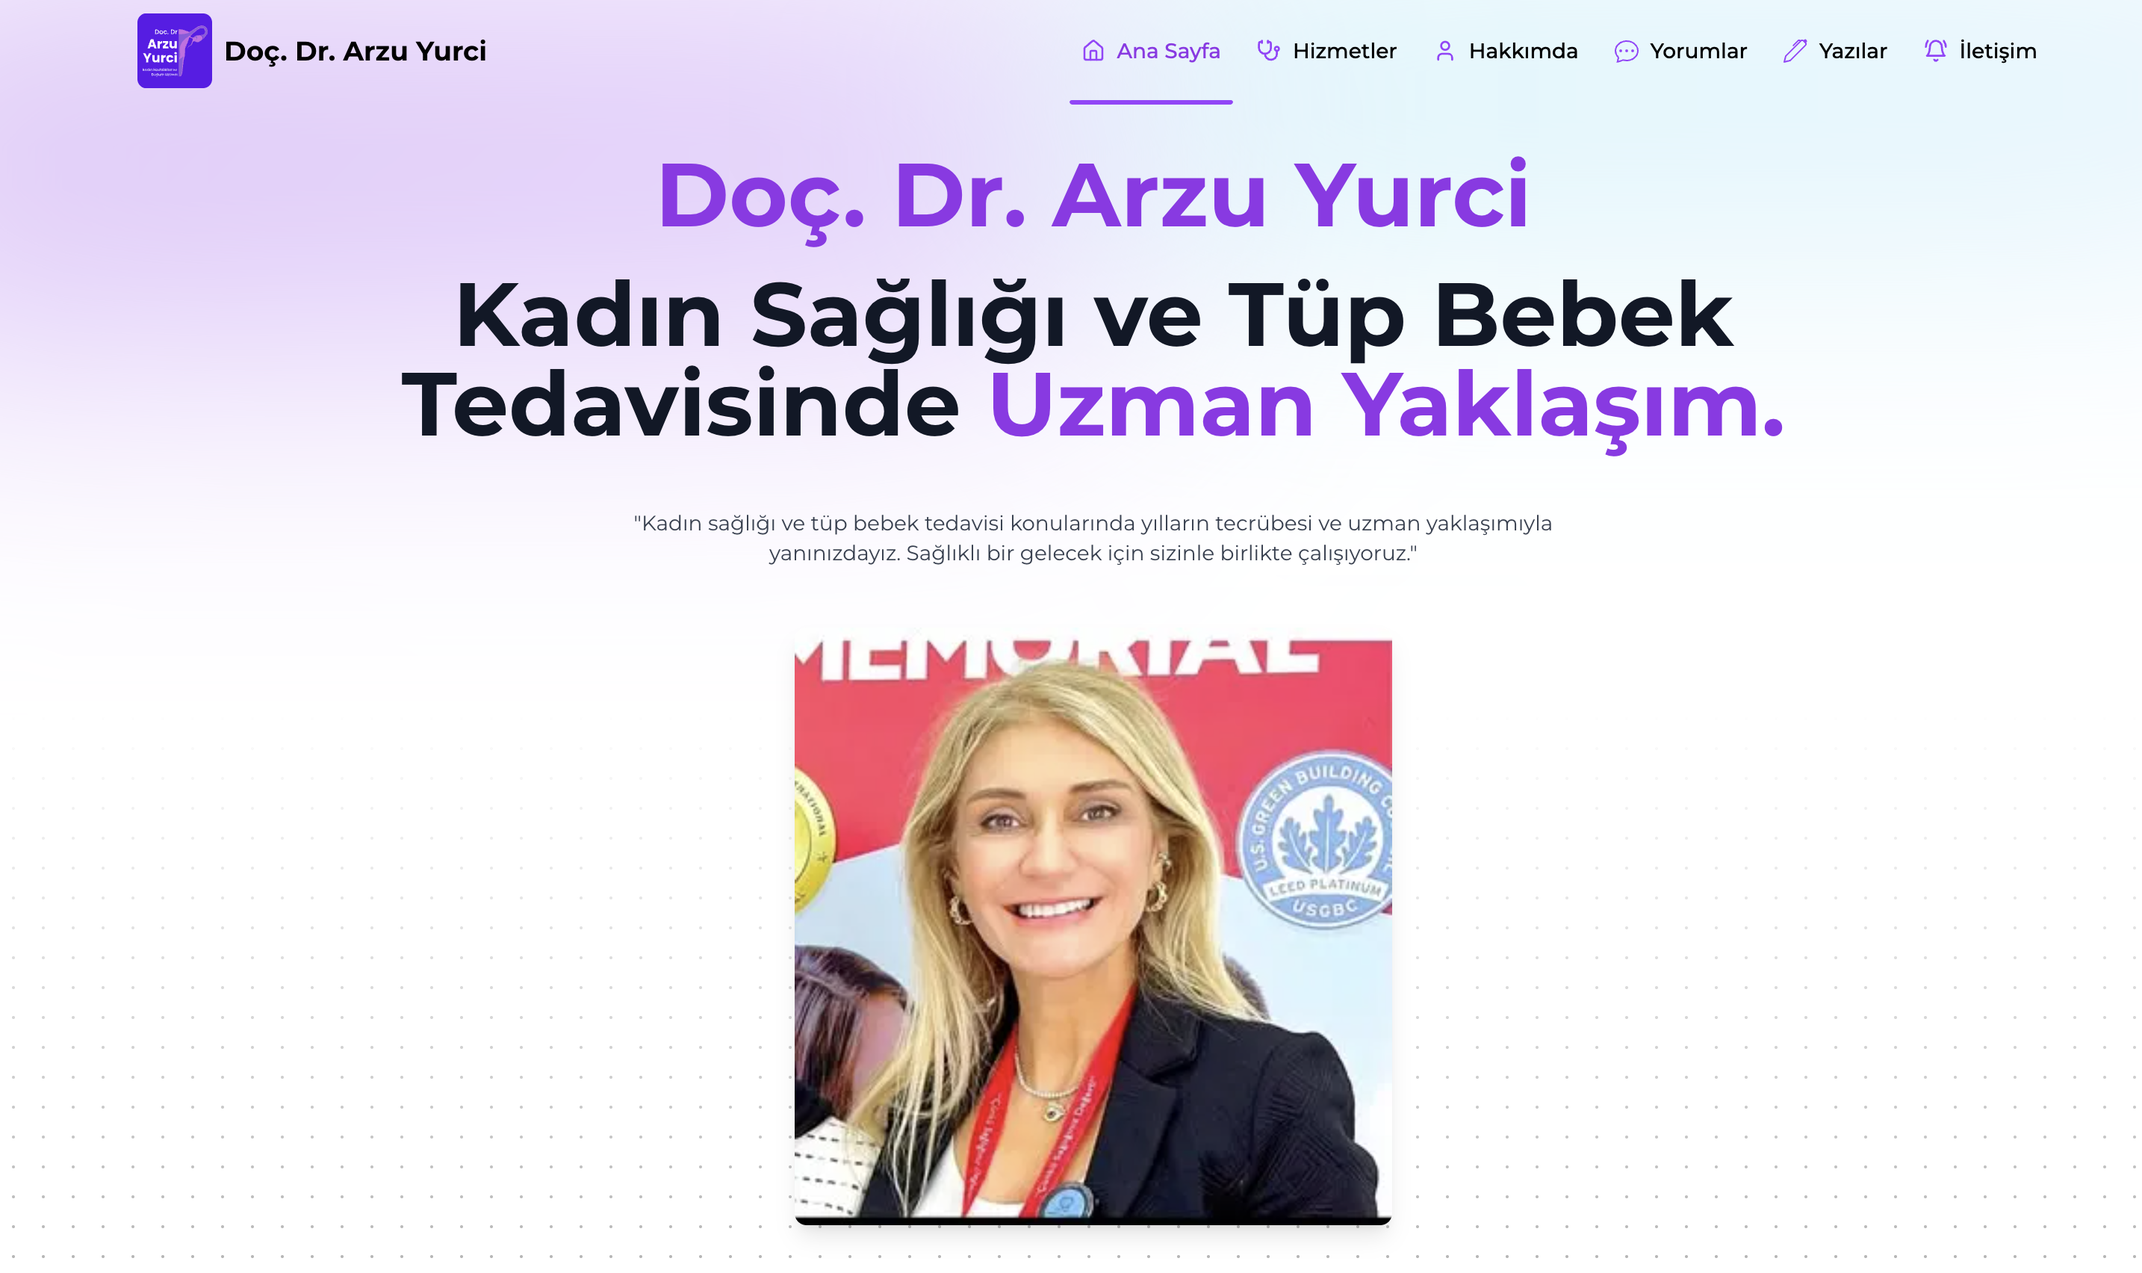
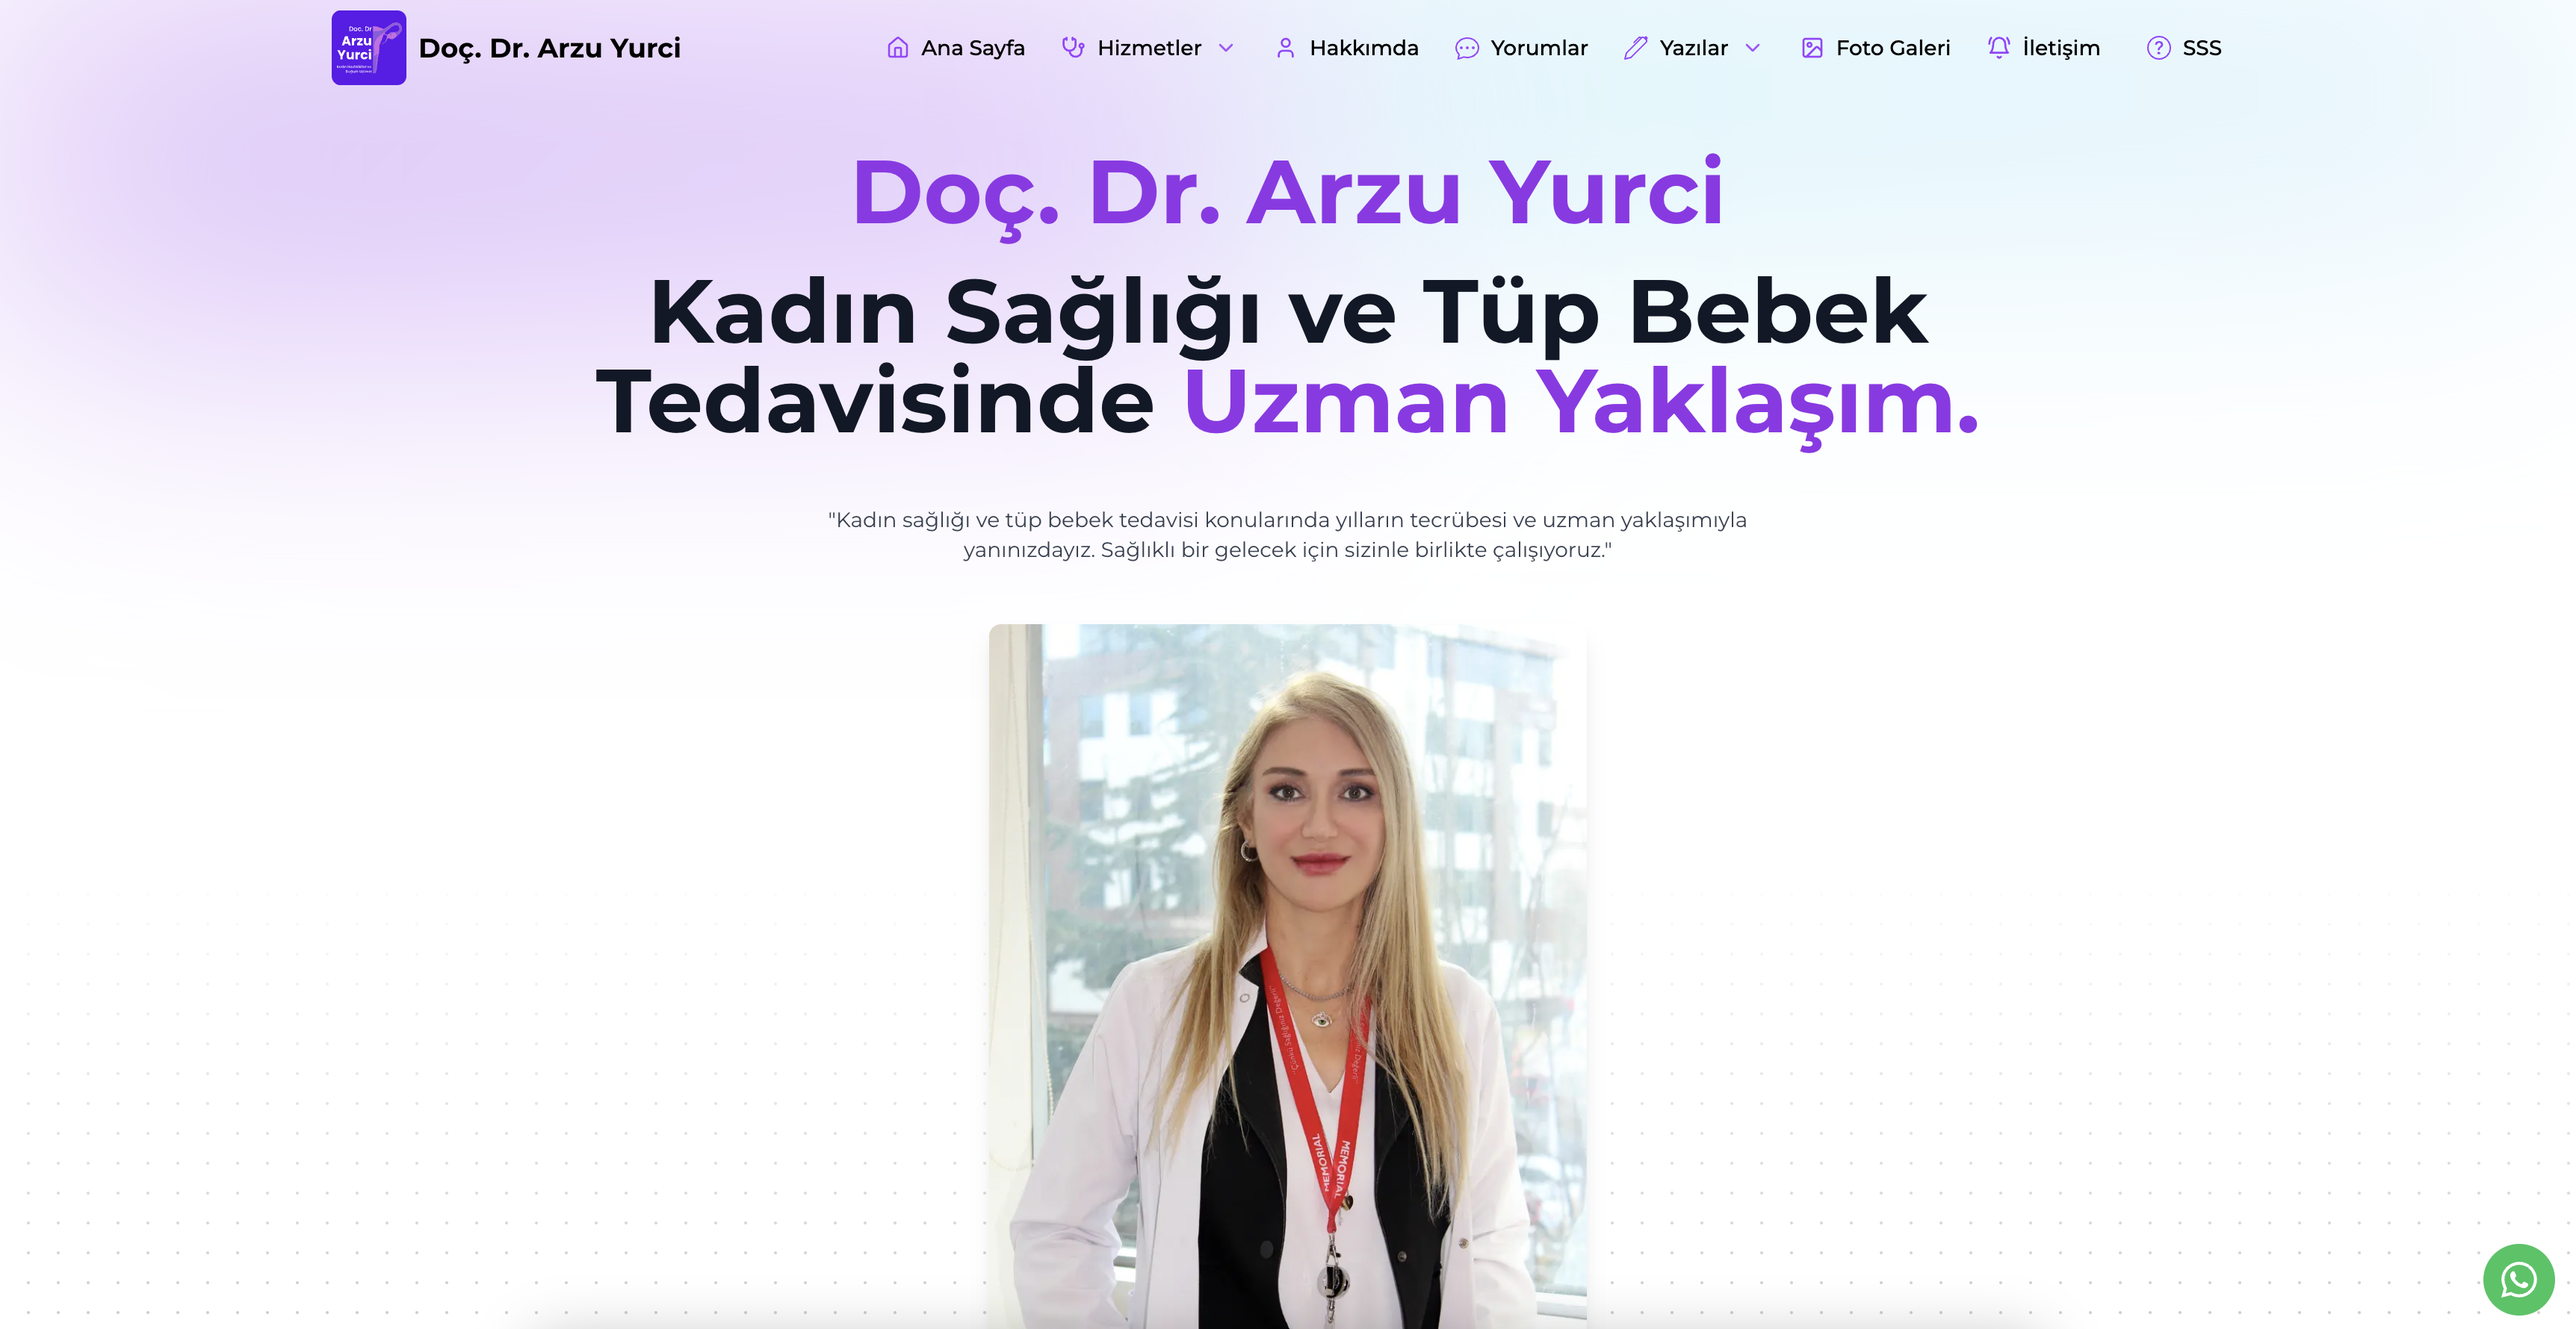
ui updates

diff --git a/src/app/hakkimda/page.jsx b/src/app/hakkimda/page.jsx
@@ -2,7 +2,6 @@ import SectionTitle from "@/components/sections/SectionTitle";
 import { UserIcon } from "lucide-react";
 import BlurFade from "@/components/ui/blur-fade";
 import Image from "next/image";
-import { BorderBeam } from "@/components/ui/border-beam";
 import CommentsSection from "@/components/sections/CommentsSection";
 import { getUser } from "@/api/endpoints";
 import { sectionKeys } from "@/routes";
@@ -43,7 +42,7 @@ async function AboutPage() {
   const data = await getUser();
   if (!data) return;
 
-  const { content, image } = data.about;
+  const { content, content_long, image } = data.about;
 
   return (
     <div className="w-full max-w-7xl mx-auto px-4 sm:px-6 lg:px-8">
@@ -54,8 +53,12 @@ async function AboutPage() {
       <div className="flex flex-col items-center gap-8 mb-12">
         <BlurFade delay={0.5} inView>
           <div
-            className="text-md text-black font-medium mx-auto max-w-4xl text-center text-pretty"
+            className="article-content text-md text-black font-medium max-w-4xl text-pretty"
             dangerouslySetInnerHTML={{ __html: content }}
+          />
+          <div
+            className="article-content text-md text-black font-medium max-w-4xl text-pretty"
+            dangerouslySetInnerHTML={{ __html: content_long }}
           />
         </BlurFade>
         <BlurFade delay={0.75} inView>
@@ -66,13 +69,6 @@ async function AboutPage() {
               alt="Doç. Dr. Arzu Yurci"
               width={500}
               height={500}
-            />
-            <BorderBeam
-              colorFrom="#9c40ff"
-              colorTo="#c084fc"
-              size={200}
-              duration={10}
-              delay={9}
             />
           </div>
         </BlurFade>

diff --git a/src/components/sections/Navbar.jsx b/src/components/sections/Navbar.jsx
@@ -101,7 +101,7 @@ function Navbar() {
         isScrolled ? "bg-white shadow-md" : "bg-transparent"
       }`}
     >
-      <div className="lg:flex hidden gap-4 items-center mx-auto justify-between w-full max-w-7xl h-full">
+      <div className="xl:flex hidden gap-4 items-center mx-auto justify-between w-full max-w-7xl h-full">
         <div className="flex items-center gap-2">
           <Image
             className="rounded-md object-cover"
@@ -135,7 +135,7 @@ function Navbar() {
               {route.hasDropdown &&
                 dropdownRoutes[route.sectionKey] &&
                 dropdownRoutes[route.sectionKey].length > 0 && (
-                  <div className="absolute top-[72px] left-0 w-max max-w-[200px] hidden shadow-md group-hover:flex flex-col bg-white">
+                  <div className="absolute top-[72px] left-0 w-max max-w-[240px] hidden shadow-md group-hover:flex flex-col bg-white">
                     {dropdownRoutes[route.sectionKey].map((item, index) => (
                       <Link
                         key={index}
@@ -152,7 +152,7 @@ function Navbar() {
         </div>
       </div>
       {/* Mobile Menu */}
-      <div className="flex justify-between items-center w-full lg:hidden">
+      <div className="flex justify-between items-center w-full xl:hidden">
         <Button
           className="min-w-max px-3"
           color="secondary"

diff --git a/public/icons/WhatsappIcon.js b/public/icons/WhatsappIcon.js
@@ -1,0 +1,14 @@
+export const WhatsappIcon = (props) => {
+  return (
+    <svg
+      xmlns="http://www.w3.org/2000/svg"
+      width={16}
+      height={16}
+      fill="currentColor"
+      viewBox="0 0 16 16"
+      {...props}
+    >
+      <path d="M13.601 2.326A7.85 7.85 0 0 0 7.994 0C3.627 0 .068 3.558.064 7.926c0 1.399.366 2.76 1.057 3.965L0 16l4.204-1.102a7.9 7.9 0 0 0 3.79.965h.004c4.368 0 7.926-3.558 7.93-7.93A7.9 7.9 0 0 0 13.6 2.326zM7.994 14.521a6.6 6.6 0 0 1-3.356-.92l-.24-.144-2.494.654.666-2.433-.156-.251a6.56 6.56 0 0 1-1.007-3.505c0-3.626 2.957-6.584 6.591-6.584a6.56 6.56 0 0 1 4.66 1.931 6.56 6.56 0 0 1 1.928 4.66c-.004 3.639-2.961 6.592-6.592 6.592m3.615-4.934c-.197-.099-1.17-.578-1.353-.646-.182-.065-.315-.099-.445.099-.133.197-.513.646-.627.775-.114.133-.232.148-.43.05-.197-.1-.836-.308-1.592-.985-.59-.525-.985-1.175-1.103-1.372-.114-.198-.011-.304.088-.403.087-.088.197-.232.296-.346.1-.114.133-.198.198-.33.065-.134.034-.248-.015-.347-.05-.099-.445-1.076-.612-1.47-.16-.389-.323-.335-.445-.34-.114-.007-.247-.007-.38-.007a.73.73 0 0 0-.529.247c-.182.198-.691.677-.691 1.654s.71 1.916.81 2.049c.098.133 1.394 2.132 3.383 2.992.47.205.84.326 1.129.418.475.152.904.129 1.246.08.38-.058 1.171-.48 1.338-.943.164-.464.164-.86.114-.943-.049-.084-.182-.133-.38-.232" />
+    </svg>
+  );
+};

diff --git a/src/components/sections/AboutSection.jsx b/src/components/sections/AboutSection.jsx
@@ -2,7 +2,6 @@ import React from "react";
 import SectionTitle from "./SectionTitle";
 import { ChevronRight, UserIcon } from "@/icons";
 import Image from "next/image";
-import { BorderBeam } from "@/components/ui/border-beam";
 import BlurFade from "@/components/ui/blur-fade";
 import Link from "next/link";
 import { Button } from "@nextui-org/react";
@@ -45,18 +44,11 @@ async function AboutSection() {
         <BlurFade delay={0.75} inView>
           <div className="relative mx-auto rounded-lg overflow-hidden">
             <Image
-              className="object-contain w-full h-auto max-h-[350px]"
+              className="object-cover w-full h-auto rounded-lg max-h-[400px]"
               src={image}
               alt="Doç. Dr. Arzu Yurci"
               width={500}
               height={500}
-            />
-            <BorderBeam
-              colorFrom="#9c40ff"
-              colorTo="#c084fc"
-              size={200}
-              duration={10}
-              delay={9}
             />
           </div>
         </BlurFade>

diff --git a/src/components/sections/GalleryImages.jsx b/src/components/sections/GalleryImages.jsx
@@ -42,11 +42,11 @@ function GalleryImages({ allImages }) {
                 <BlurFade key={index} inView>
                   <Image
                     onClick={() => handleClickImage(index + 1)}
-                    className="w-full max-h-[400px] cursor-pointer rounded-md"
+                    className="min-w-full cursor-pointer rounded-md"
                     alt="Doç. Dr. Arzu Yurci Galeri"
                     src={item}
-                    width={300}
-                    height={300}
+                    width={500}
+                    height={500}
                   />
                 </BlurFade>
               ))}

diff --git a/src/components/sections/ServicesSection.jsx b/src/components/sections/ServicesSection.jsx
@@ -44,7 +44,7 @@ async function ServicesSection({ isDetailPage, url }) {
       <div className="columns-1 sm:columns-2 lg:columns-3">
         {activeData.map((service, index) => (
           <Link key={index} href={`hizmet/${service.url}`}>
-            <BlurFade className="mb-8" delay={0.25 + index * 0.1} inView>
+            <BlurFade className="mb-8" inView>
               <div className="relative w-full sm:max-w-full max-w-[400px] mx-auto bg-white shadow-lg hover:scale-105 duration-300 rounded-lg overflow-hidden">
                 <Image
                   className="object-cover w-full max-h-[200px] -z-1"

diff --git a/src/components/sections/WhatsappButton.jsx b/src/components/sections/WhatsappButton.jsx
@@ -1,0 +1,19 @@
+import { getUser } from "@/api/endpoints";
+import { WhatsappIcon } from "@/icons";
+
+async function WhatsappButton() {
+  const data = await getUser();
+  if (!data) return;
+
+  const { whatsappPhone } = data.admin;
+  return (
+    <a
+      href={`https://api.whatsapp.com/send?phone=+90${whatsappPhone}`}
+      className="fixed bottom-4 right-4 bg-green-500 w-12 h-12 rounded-full flex items-center justify-center hover:scale-110 duration-200"
+    >
+      <WhatsappIcon className="w-6 h-6 text-white" />
+    </a>
+  );
+}
+
+export default WhatsappButton;

diff --git a/src/app/main.jsx b/src/app/main.jsx
@@ -1,6 +1,7 @@
 import Home from "./Home";
 import Navbar from "@/components/sections/Navbar";
 import Footer from "@/components/sections/Footer";
+import WhatsappButton from "@/components/sections/WhatsappButton";
 
 function Main({ children }) {
   return (
@@ -16,6 +17,7 @@ function Main({ children }) {
       <div className="relative" style={{ zIndex: 9 }}>
         <Navbar />
         <Home>{children}</Home>
+        <WhatsappButton />
         <Footer />
       </div>
     </main>

diff --git a/public/icons/index.js b/public/icons/index.js
@@ -10,3 +10,4 @@ export { PenIcon } from './PenIcon';
 export { ChevronRight } from './ChevronRight';
 export { HomeIcon } from './HomeIcon';
 export { ImageIcon } from './ImageIcon';
+export { WhatsappIcon } from './WhatsappIcon';
